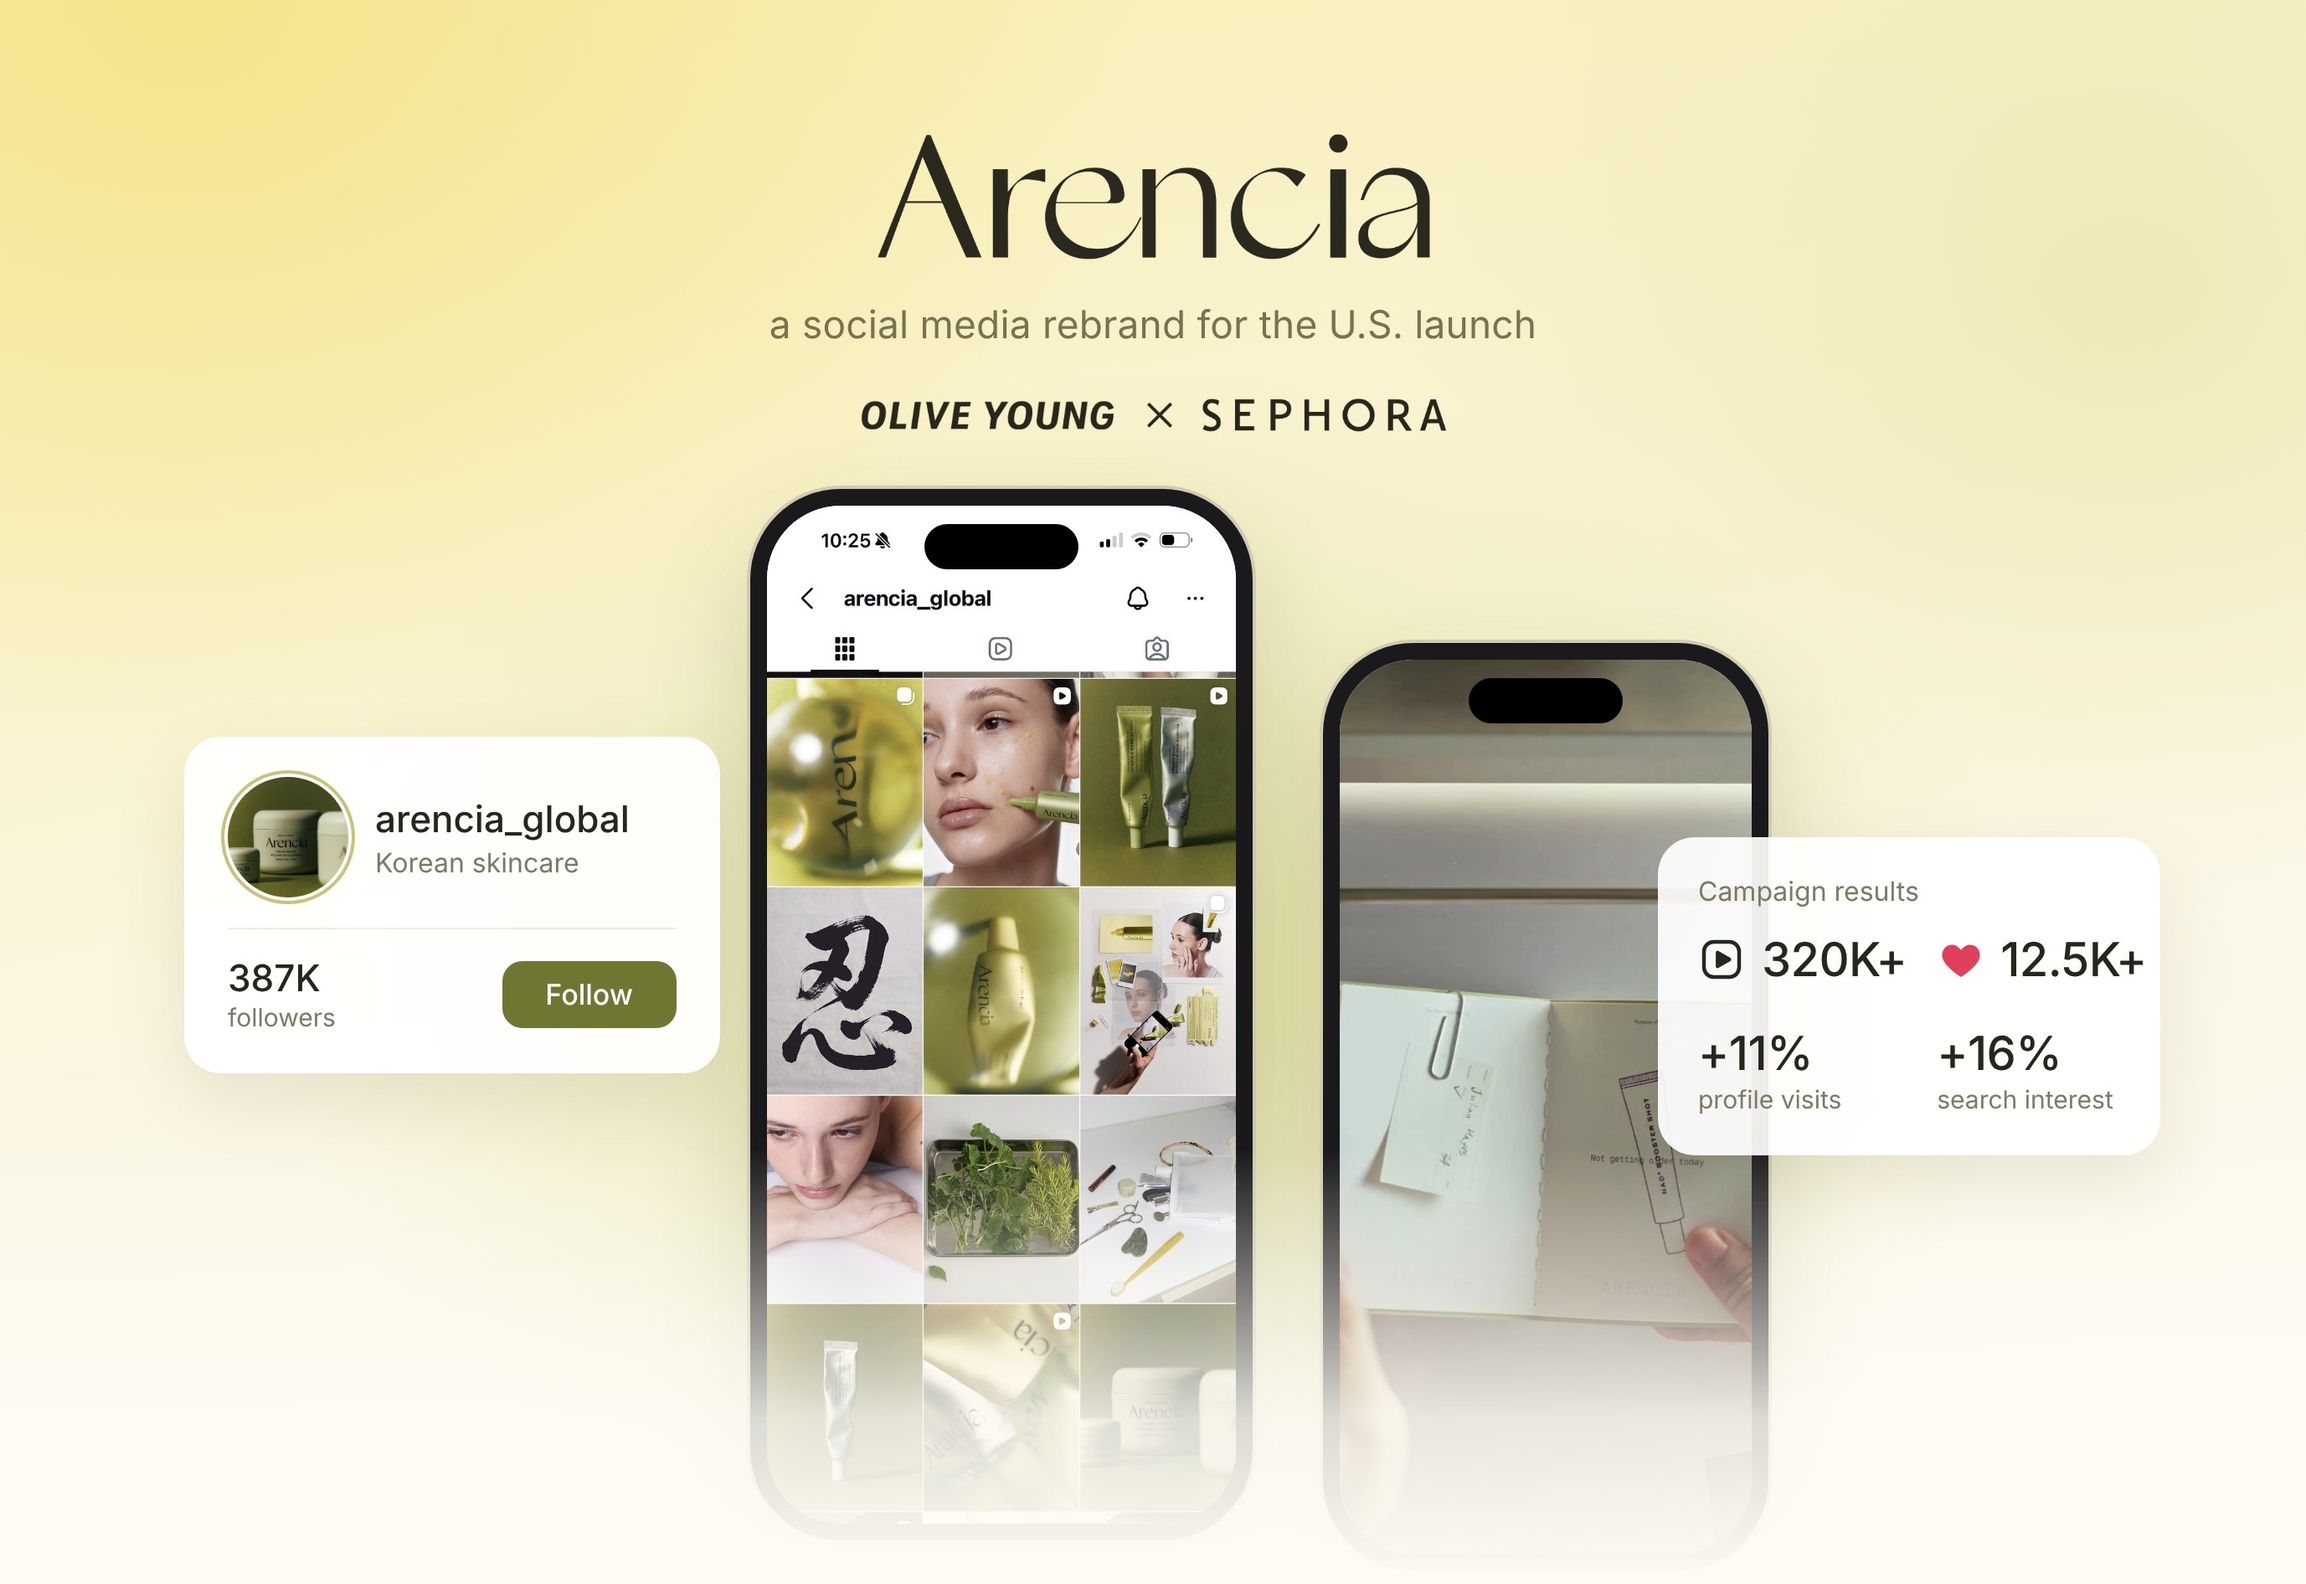
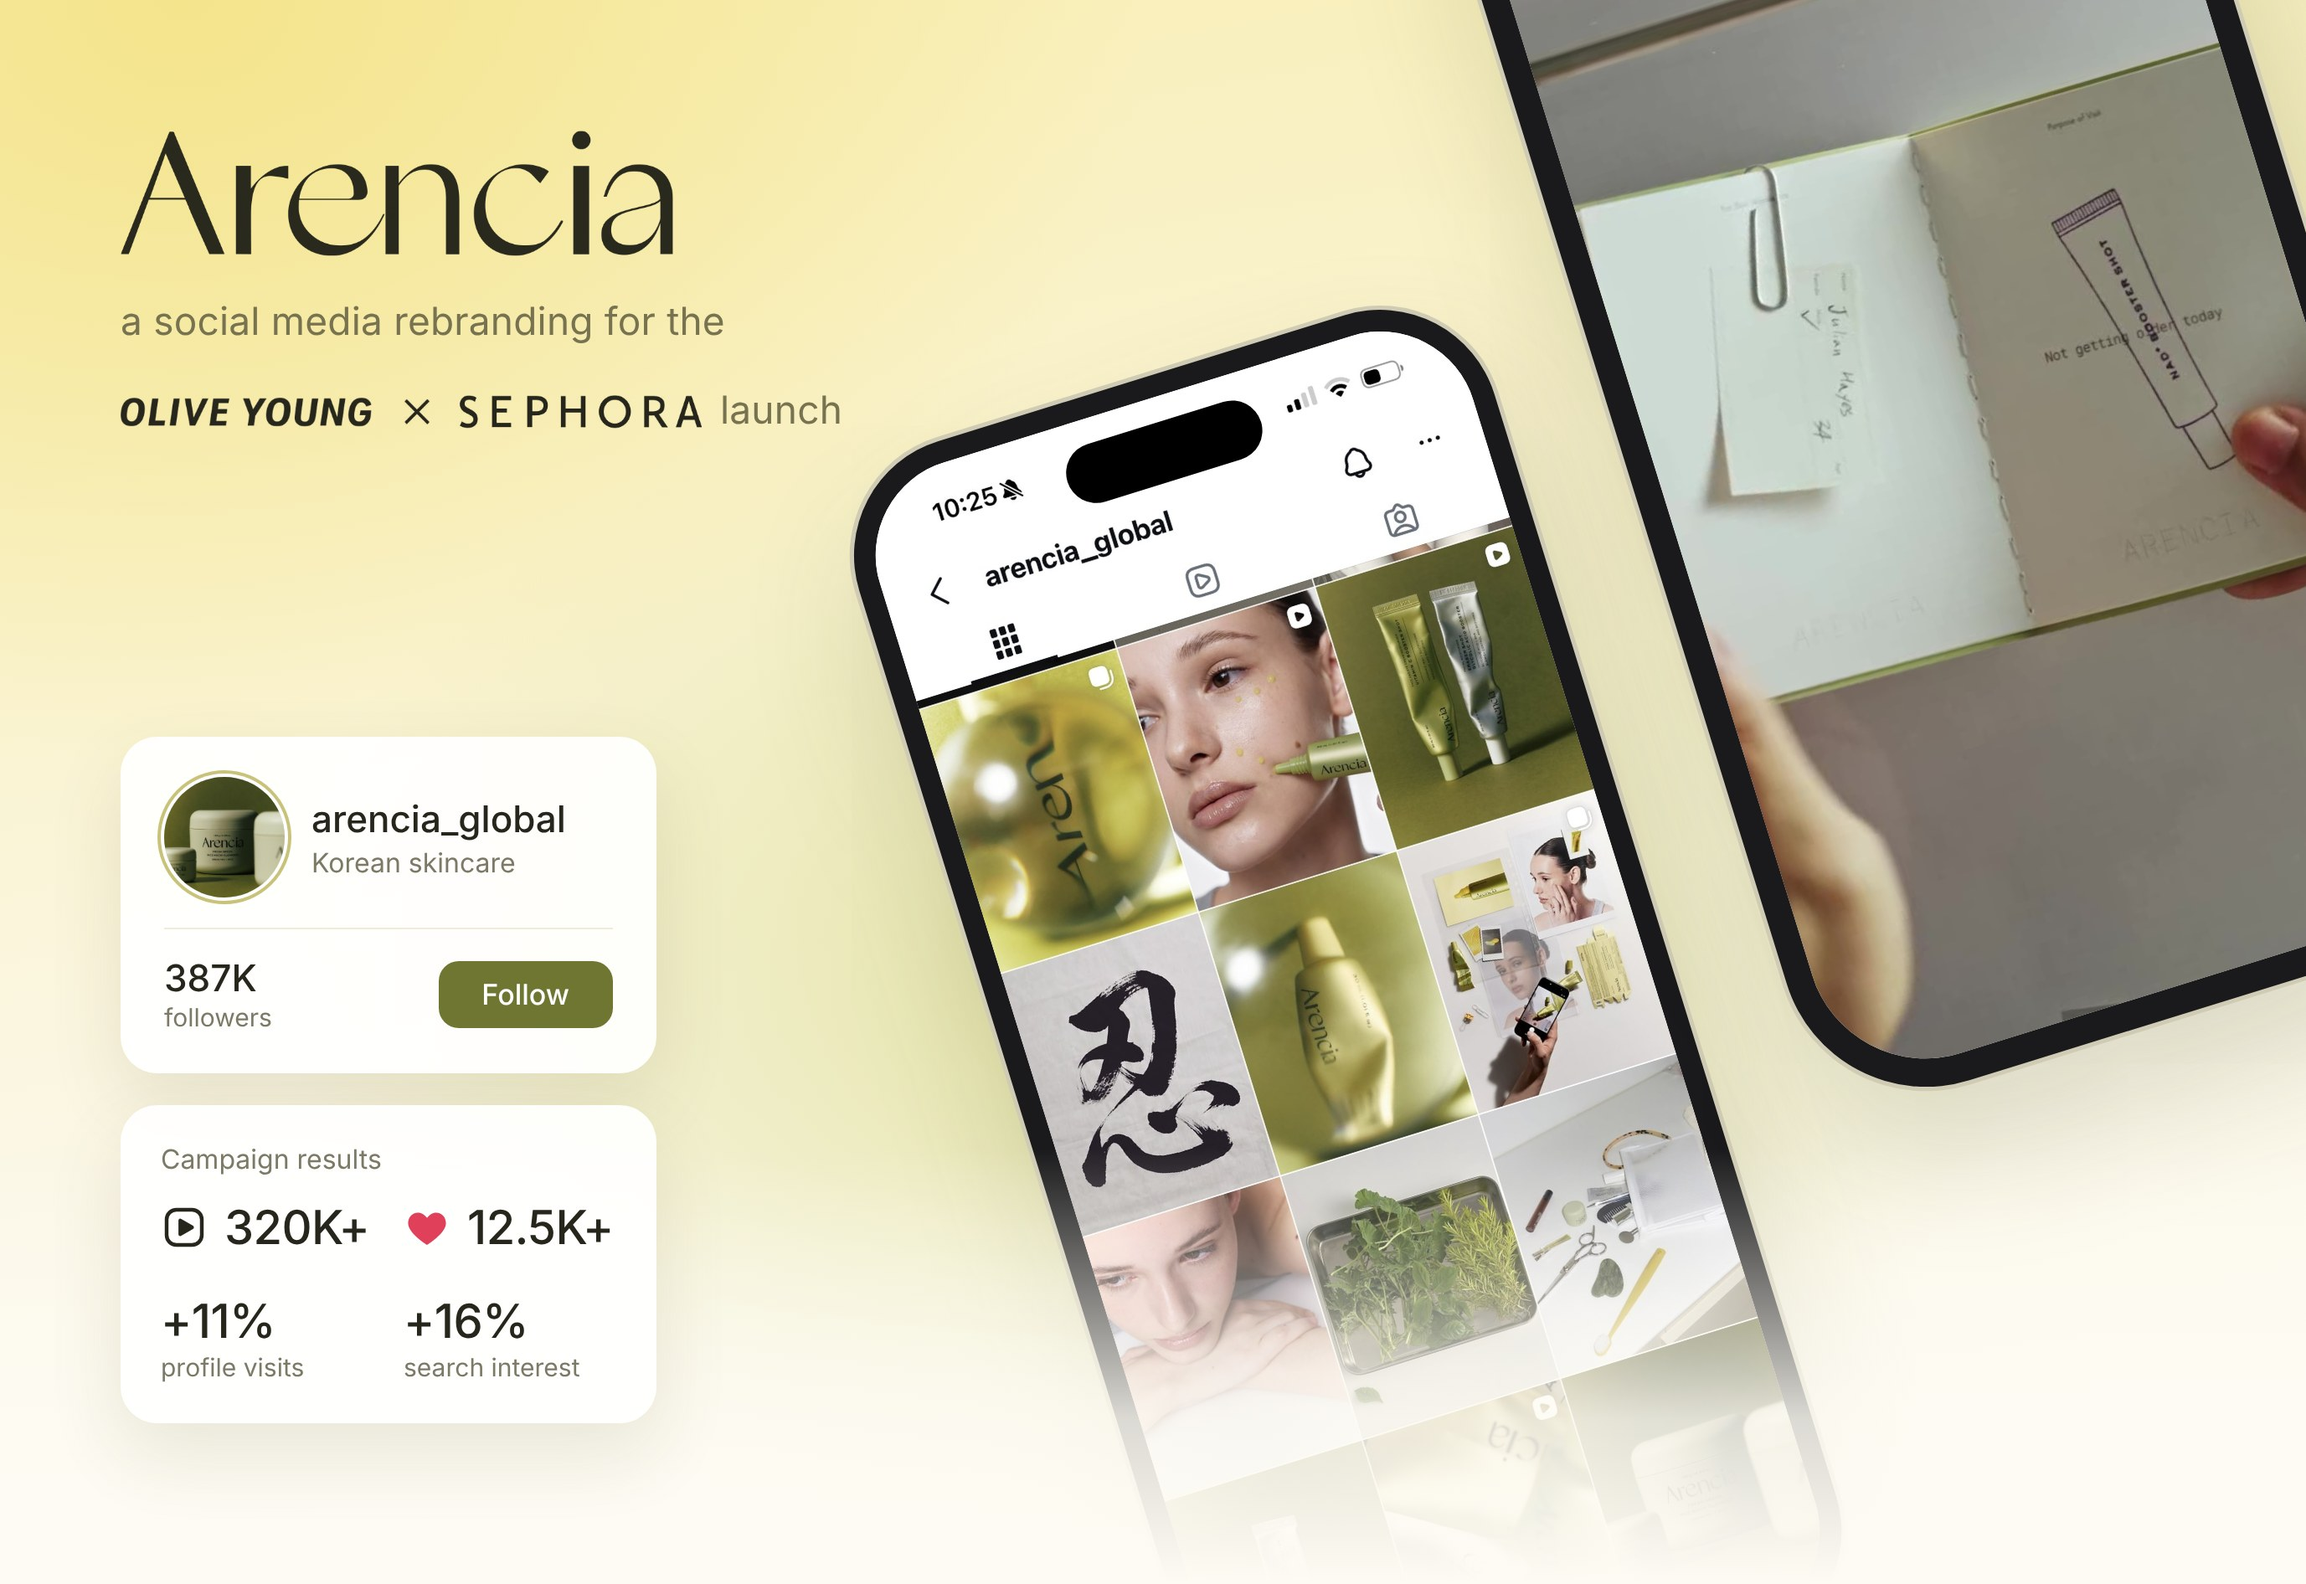
Home: Bark, Arencia and Na Kim covers follow the Figma layouts (#16)
Re-rendered from the rearranged frames in the editable Figma file, cleaned up:
Bark headline on one line with aligned cards, Arencia left-aligned text with
tilted phones and stacked cards, Na Kim left-aligned title on a solid cream
background with the tilted spread and poster.

Claude-Session: https://claude.ai/code/session_01PJkMotC6Nz8qWguHKxjy1y

diff --git a/index.html b/index.html
@@ -50,8 +50,8 @@
 
       <a class="project" href="cmugpt-site/index.html">
         <div class="project__media project__media--cmugpt">
-          <img src="cmugpt-site/images/cover.png?v=4" width="1377" height="946"
-            alt="Bark cover: 'Ask anything about Carnegie Mellon' above an iMac showing a Bark answer with an interactive CMU Maps route, with cards for the live ScottyLabs tools (CMU Maps, CMUEats, CMU Courses), chat search with a starred chat, and memory saved">
+          <img src="cmugpt-site/images/cover.png?v=5" width="1377" height="946"
+            alt="Bark cover: 'Ask anything about Carnegie Mellon.' above an iMac showing a Bark answer with an interactive CMU Maps route, with cards for the live ScottyLabs tools (CMU Maps, CMUEats, CMU Courses) and chat search with a starred chat">
           <video class="project__hover" data-src="cmugpt-site/images/hover.mp4?v=2" muted playsinline loop preload="none" aria-hidden="true"></video>
         </div>
         <h2 class="project__title">Bark</h2>
@@ -60,8 +60,8 @@
 
       <a class="project" href="arencia-site/index.html">
         <div class="project__media project__media--arencia">
-          <img src="arencia-site/images/cover.jpg?v=8" width="1377" height="946"
-            alt="Arencia cover: the Arencia logo and the Olive Young x Sephora logo above two phones, one showing the rebranded Instagram grid and the other the Booster Shot passport video, with the @arencia_global profile card (387K followers) and campaign results: 320K+ views, 12.5K+ likes, +11% profile visits and +16% search interest">
+          <img src="arencia-site/images/cover.jpg?v=9" width="1377" height="946"
+            alt="Arencia cover: the Arencia logo and 'a social media rebranding for the Olive Young x Sephora launch' beside two tilted phones, one showing the rebranded Instagram grid and the other the Booster Shot passport video, with the @arencia_global profile card (387K followers) and campaign results: 320K+ views, 12.5K+ likes, +11% profile visits and +16% search interest">
           <video class="project__hover" data-src="arencia-site/images/hover.mp4?v=1" muted playsinline loop preload="none" aria-hidden="true"></video>
         </div>
         <h2 class="project__title">Arencia</h2>
@@ -70,8 +70,8 @@
 
       <a class="project" href="design-hero-site/index.html">
         <div class="project__media project__media--hero">
-          <img src="design-hero-site/images/cover.jpg?v=3" width="1377" height="946"
-            alt="Na Kim cover: the booklet's contents spread beside the 'simple form, complex idea' poster">
+          <img src="design-hero-site/images/cover.jpg?v=4" width="1377" height="946"
+            alt="Na Kim cover: the title on a cream background above the tilted booklet contents spread and the 'simple form, complex idea' poster">
           <video class="project__hover" data-src="design-hero-site/images/hover.mp4?v=1" muted playsinline loop preload="none" aria-hidden="true"></video>
         </div>
         <h2 class="project__title">Design Hero</h2>
